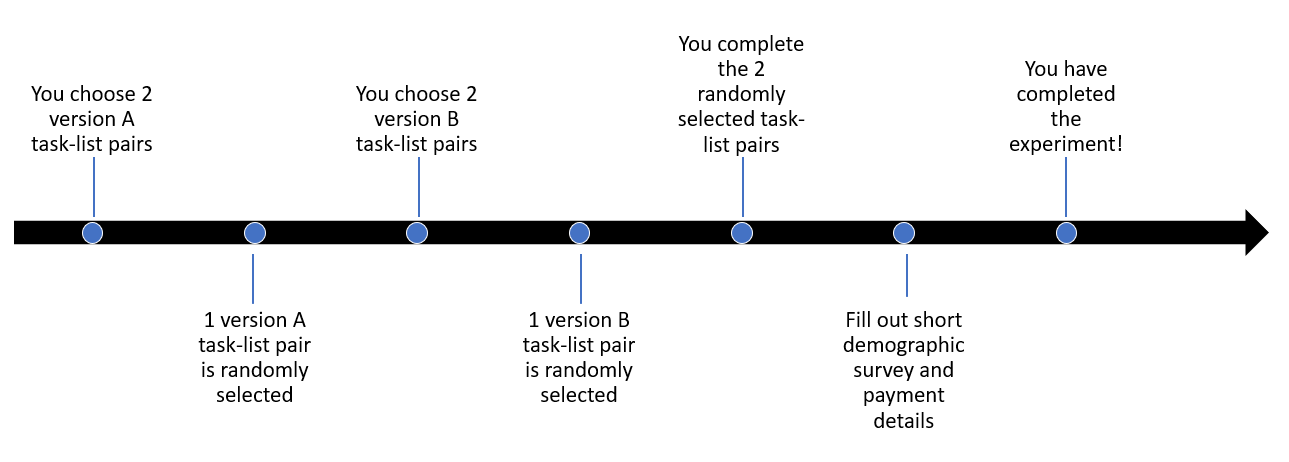
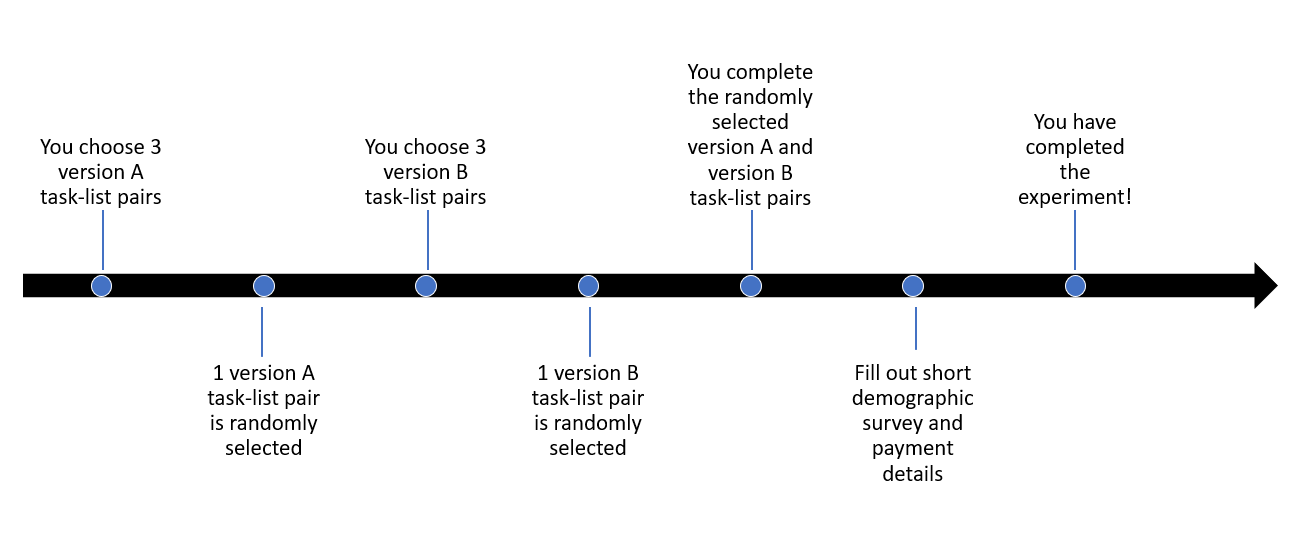
Incorporated updated changes

Changed region(s): [[0.0, 0.0606, 0.993, 0.8788], [0.6517, 0.6667, 0.7758, 0.9394], [0.4034, 0.6667, 0.4965, 0.8788]]

diff --git a/RET_Choice/BlunderTaskSelection.html b/RET_Choice/BlunderTaskSelection.html
@@ -47,35 +47,35 @@ ul { display: inline-block; text-align: left; }
 
 <div class = "opt1">
     <h4>Option 1</h4>
-    {{ if player.participant.treatment == 'Substitution' }}
-    {{ include 'RET_Choice/Substitution_Opt1.html'}}
-{{ endif }}
-{{ if player.participant.treatment == 'Post_Information' }}
-    {{ include 'RET_Choice/Post_Opt1.html'}}
-{{ endif }}
-{{ if player.participant.treatment == 'Pre_Information' }}
-    {{ include 'RET_Choice/Pre_Opt1.html'}}
-{{ endif }}
+<p>
+    Complete the <strong>{{Good_Task}} (level 1)</strong> task. <br>
+    After completing the <strong>{{Good_Task}} (level 1)</strong> task, you must complete <strong>one</strong> of the following tasks:
+</p>
+    <ul>
+        <li>{{remaining_tasks.0}} (level 1)</li>
+        <li>{{remaining_tasks.1}} (level 1)</li>
+        <li>{{remaining_tasks.2}} (level 1)</li>
+    </ul>
 </div>
 
 <br>
 <div class = "opt2">
     <h4>Option 2</h4>
-{{ if player.participant.treatment == 'Substitution' }}
-    {{ include 'RET_Choice/Substitution_Opt2.html'}}
-{{ endif }}
-{{ if player.participant.treatment == 'Post_Information' }}
-    {{ include 'RET_Choice/Post_Opt2.html'}}
-{{ endif }}
-{{ if player.participant.treatment == 'Pre_Information' }}
-    {{ include 'RET_Choice/Pre_Opt2.html'}}
-{{ endif }}
+<p>
+    Complete the <strong>{{Bad_Task}} (level 1)</strong> task. <br>
+    After completing the <strong>{{Bad_Task}} (level 1)</strong> task, you must complete <strong>one</strong> of the following tasks:
+</p>
+    <ul>
+        <li>{{remaining_tasks.0}} (level 1)</li>
+        <li>{{remaining_tasks.1}} (level 1)</li>
+        <li>{{remaining_tasks.2}} (level 1)</li>
+    </ul>
 </div>
 
 <br>
 <p>
 </p>
-    {% formfield player.Control_Task_Choice label="Please select one of the above options"
+    {% formfield player.Blunder_Task_Choice label="Please select one of the above options"
 %}
 
 

diff --git a/RET_Choice/RandomPick.html b/RET_Choice/RandomPick.html
@@ -42,6 +42,32 @@ ul { display: inline-block; text-align: left; }
             {{ include 'RET_Choice/Option2.html'}}
         {{ endif }}
     {% endwith %}
+{{ elif player.participant.treatment_used1 == 'Blunder'}}
+    {{ if player.Blunder_Task_Choice == "Option 1" }}
+        <div class = "opt1">
+        <p>
+            Complete the <strong>{{Good_Task}} (level 1)</strong> task. <br>
+            After completing the <strong>{{Good_Task}} (level 1)</strong> task, you must complete <strong>one</strong> of the following tasks:
+        </p>
+            <ul>
+                <li>{{remaining_tasks.0}} (level 1)</li>
+                <li>{{remaining_tasks.1}} (level 1)</li>
+                <li>{{remaining_tasks.2}} (level 1)</li>
+            </ul>
+        </div>
+    {{ else }}
+        <div class = "opt2">
+        <p>
+            Complete the <strong>{{Bad_Task}} (level 1)</strong> task. <br>
+            After completing the <strong>{{Bad_Task}} (level 1)</strong> task, you must complete <strong>one</strong> of the following tasks:
+        </p>
+            <ul>
+                <li>{{remaining_tasks.0}} (level 1)</li>
+                <li>{{remaining_tasks.1}} (level 1)</li>
+                <li>{{remaining_tasks.2}} (level 1)</li>
+            </ul>
+        </div>
+    {{ endif }}
 {{ else }}
     {% with control=True %}
         {{ if player.Control_Task_Choice == "Option 1" }}

diff --git a/RET_Choice/RetChoiceIntroduction.html b/RET_Choice/RetChoiceIntroduction.html
@@ -25,7 +25,7 @@
 
 <p>
     You will need to choose 4 task-list pairs. <br>
-    This will consist of choosing 2 version A task-list pairs, and 2 version B task-list pairs. <br>
+    This will consist of choosing 3 version A task-list pairs, and 3 version B task-list pairs. <br>
     I will randomly select one version A task-list pair, and one version B task-list pair for you to complete.
     The full timeline of events is shown below. <br>
 </p>

diff --git a/RET_Choice/TaskSelection.html b/RET_Choice/TaskSelection.html
@@ -35,7 +35,7 @@ ul { display: inline-block; text-align: left; }
     <h3>Reminder</h3>
 
 <p> In this stage of the experiment, you need to select a task-list pair. <br>
-    There is a <b>50%</b> chance that you will have to complete the task-list pair you choose on this page.
+    There is a <b>1 in 3</b> (approximately 33%) chance  that you will have to complete the task-list pair you choose on this page.
 </p>
 </div>
 <br>

diff --git a/RET_Choice/__init__.py b/RET_Choice/__init__.py
@@ -3,7 +3,7 @@ import random
 from otree.api import *
 
 from . import models
-from Global_Functions import task_name, task_name_decoder, option_index
+from Global_Functions import task_name, task_name_decoder, option_index, list_subtract
 # Treatment, Pair1, pair2 are inputted before.
 
 author = 'Vivikth'
@@ -35,6 +35,9 @@ class Player(BasePlayer):
     Treatment_Caused_Switch = models.BooleanField(
         doc="Treatment_Caused_Switch"
     )
+    Blunder_Task_Choice = models.CharField(
+        doc="Blunder_Task_Choice", choices=Constants.task_list, widget=widgets.RadioSelect,
+    )
 # Need to add calculations determining whether player switched.
 
 
@@ -56,11 +59,11 @@ def creating_session(subsession):
             if 'treatment_used1' in player.session.config:
                 player.participant.treatment_used1 = player.session.config['treatment_used1']
             else:
-                player.participant.treatment_used1 = random.choice(["Control", "Treatment"])
+                player.participant.treatment_used1 = random.choice(["Control", "Treatment", "Blunder"])
             if 'treatment_used2' in player.session.config:
                 player.participant.treatment_used2 = player.session.config['treatment_used2']
             else:
-                player.participant.treatment_used2 = random.choice(["Control", "Treatment"])
+                player.participant.treatment_used2 = random.choice(["Control", "Treatment", "Blunder"])
 
 
 # PAGES
@@ -68,6 +71,34 @@ class RetChoiceIntroduction(Page):
     @staticmethod
     def is_displayed(player: Player):
         return 'stage' not in player.participant.vars
+
+
+class BlunderTaskSelection(Page):
+    form_model = 'player'
+    form_fields = ['Blunder_Task_Choice']
+
+    @staticmethod
+    def vars_for_template(player: Player):
+        all_tasks = ['Tabulation', 'Concealment', 'Interpretation', 'Replication', 'Organisation']
+        if 'stage' not in player.participant.vars:
+            stage_for_template = "1st"
+            version_for_template = "A"
+            good_task = task_name(player.participant.pair1[0])
+            bad_task = task_name(player.participant.pair1[1])
+            remaining_tasks = list_subtract(all_tasks, [good_task, bad_task])
+        else:
+            stage_for_template = "2nd"
+            version_for_template = "B"
+            good_task = task_name(player.participant.pair2[0])
+            bad_task = task_name(player.participant.pair2[1])
+            remaining_tasks = list_subtract(all_tasks, [good_task, bad_task])
+        return {
+            'Good_Task': good_task,
+            'Bad_Task': bad_task,
+            'stage_for_template': stage_for_template,
+            'version_for_template': version_for_template,
+            'remaining_tasks': remaining_tasks
+        }
 
 
 class ControlTaskSelection(Page):
@@ -112,12 +143,16 @@ class TaskSelection(Page):
             player.participant.stage = '1a'
             if player.participant.treatment_used1 == "Treatment":
                 option = option_index(player.Task_Choice) - 1
+            elif player.participant.treatment_used1 == "Blunder":
+                option = option_index(player.Blunder_Task_Choice) - 1
             else:
                 option = option_index(player.Control_Task_Choice) - 1
             player.participant.opt_choice1 = option
         elif player.participant.vars['stage'] == '1a':
             if player.participant.treatment_used2 == "Treatment":
                 option = option_index(player.Task_Choice) - 1
+            elif player.participant.treatment_used2 == "Blunder":
+                option = option_index(player.Blunder_Task_Choice) - 1
             else:
                 option = option_index(player.Control_Task_Choice) - 1
             player.participant.opt_choice2 = option
@@ -150,6 +185,7 @@ class TaskSelection(Page):
 class RandomPick(Page):
     @staticmethod
     def vars_for_template(player: Player):
+        all_tasks = ['Tabulation', 'Concealment', 'Interpretation', 'Replication', 'Organisation']
         if 'opt_choice2' not in player.participant.vars:
             stage_for_template = "1st"
             version_for_template = "A"
@@ -160,6 +196,7 @@ class RandomPick(Page):
                 treatment_template = "2nd"
             else:
                 treatment_template = "1st"
+            remaining_tasks = list_subtract(all_tasks, [good_task, bad_task])
         else:
             stage_for_template = "2nd"
             version_for_template = "B"
@@ -170,13 +207,15 @@ class RandomPick(Page):
                 treatment_template = "2nd"
             else:
                 treatment_template = "1st"
+            remaining_tasks = list_subtract(all_tasks, [good_task, bad_task])
         return {
             'Good_Task': good_task,
             'Bad_Task': bad_task,
             'stage_for_template': stage_for_template,
             'Task_Info': task_info,
             'version_for_template': version_for_template,
-            'treatment_template': treatment_template
+            'treatment_template': treatment_template,
+            'remaining_tasks': remaining_tasks
         }
 
 
@@ -194,8 +233,7 @@ class RandomPick(Page):
         if 'opt_choice2' in player.participant.vars:
             player.participant.task_to_complete = task_name_decoder(task_name(player.participant.pair[opt_choice1])) \
                                                   + player.participant.stage
-            print(player.participant.task_to_complete)
             return task_name_decoder(task_name(player.participant.pair[opt_choice1])) + player.participant.stage
 
 
-page_sequence = [RetChoiceIntroduction, ControlTaskSelection, TaskSelection, RandomPick]
+page_sequence = [RetChoiceIntroduction, BlunderTaskSelection, ControlTaskSelection, TaskSelection, RandomPick]

diff --git a/Menu_Select/__init__.py b/Menu_Select/__init__.py
@@ -1,6 +1,6 @@
 from otree.api import *
 from . import models
-from Global_Functions import task_name, task_name_decoder
+from Global_Functions import task_name, task_name_decoder, list_subtract
 
 # Treatment, Pair1, pair2 are inputted before.
 
@@ -40,6 +40,12 @@ def menu_task_choices(player):
             if player.participant.treatment_used1 == "Treatment":
                 pref_opt = task_name(player.participant.pair[1])
                 return [pref_opt + " (level 2)", pref_opt + " (level 3)", pref_opt + " (level 4)"]
+            elif player.participant.treatment_used1 == "Blunder":
+                all_tasks = ['Tabulation', 'Concealment', 'Interpretation', 'Replication', 'Organisation']
+                good_task = task_name(player.participant.pair[0])
+                bad_task = task_name(player.participant.pair[1])
+                remaining_tasks = list_subtract(all_tasks, [good_task, bad_task])
+                return [task + " (level 1)" for task in remaining_tasks]
             else:
                 item1 = player.participant.sub_menu1[0][0] + " (level %i)" % (player.participant.sub_menu1[0][1])
                 item2 = player.participant.sub_menu1[1][0] + " (level %i)" % (player.participant.sub_menu1[1][1])
@@ -49,14 +55,27 @@ def menu_task_choices(player):
             if player.participant.treatment_used2 == "Treatment":
                 pref_opt = task_name(player.participant.pair[1])
                 return [pref_opt + " (level 2)", pref_opt + " (level 3)", pref_opt + " (level 4)"]
+            elif player.participant.treatment_used1 == "Blunder":
+                all_tasks = ['Tabulation', 'Concealment', 'Interpretation', 'Replication', 'Organisation']
+                good_task = task_name(player.participant.pair[0])
+                bad_task = task_name(player.participant.pair[1])
+                remaining_tasks = list_subtract(all_tasks, [good_task, bad_task])
+                return [task + " (level 1)" for task in remaining_tasks]
             else:
                 item1 = player.participant.sub_menu2[0][0] + " (level %i)" % (player.participant.sub_menu2[0][1])
                 item2 = player.participant.sub_menu2[1][0] + " (level %i)" % (player.participant.sub_menu2[1][1])
                 item3 = player.participant.sub_menu2[2][0] + " (level %i)" % (player.participant.sub_menu2[2][1])
                 return [item1, item2, item3]
     else:
-        return [task_name(player.participant.pair[0]) + " (level 1)",
-                task_name(player.participant.pair[1]) + " (level 1)"]
+        if player.participant.treatment_used1 == "Blunder":
+            all_tasks = ['Tabulation', 'Concealment', 'Interpretation', 'Replication', 'Organisation']
+            good_task = task_name(player.participant.pair[0])
+            bad_task = task_name(player.participant.pair[1])
+            remaining_tasks = list_subtract(all_tasks, [good_task, bad_task])
+            return [task + " (level 1)" for task in remaining_tasks]
+        else:
+            return [task_name(player.participant.pair[0]) + " (level 1)",
+                    task_name(player.participant.pair[1]) + " (level 1)"]
 
 
 # PAGES

diff --git a/RET_Choice/tests.py b/RET_Choice/tests.py
@@ -25,14 +25,19 @@ class PlayerBot(Bot):
 
             control_choice = bot_control_choice(bot_type)
             treatment_choice = bot_treatment_choice(bot_type)
-
+            blunder_choice = 1
             control_tremble_draw = random.random()
             if control_tremble_draw < self.case['tremble_prob']:
                 control_choice = 3 - control_choice
             treatment_tremble_draw = random.random()
             if treatment_tremble_draw < self.case['tremble_prob']:
                 treatment_choice = 3 - treatment_choice
+            blunder_tremble_draw = random.random()
+            if blunder_tremble_draw < self.case['tremble_prob']:
+                blunder_choice = 3 - treatment_choice
 
+
+            yield BlunderTaskSelection, dict(Blunder_Task_Choice="Option %i" % blunder_choice)
             yield ControlTaskSelection, dict(Control_Task_Choice="Option %i" % control_choice)
             yield TaskSelection, dict(Task_Choice="Option %i" % treatment_choice)
             yield RandomPick

diff --git a/RET_Choice_2/tests.py b/RET_Choice_2/tests.py
@@ -25,14 +25,19 @@ class PlayerBot(Bot):
 
             control_choice = bot_control_choice(bot_type)
             treatment_choice = bot_treatment_choice(bot_type)
-
+            blunder_choice = 1
             control_tremble_draw = random.random()
             if control_tremble_draw < self.case['tremble_prob']:
                 control_choice = 3 - control_choice
             treatment_tremble_draw = random.random()
             if treatment_tremble_draw < self.case['tremble_prob']:
                 treatment_choice = 3 - treatment_choice
+            blunder_tremble_draw = random.random()
+            if blunder_tremble_draw < self.case['tremble_prob']:
+                blunder_choice = 3 - treatment_choice
 
+
+            yield BlunderTaskSelection, dict(Blunder_Task_Choice="Option %i" % blunder_choice)
             yield ControlTaskSelection, dict(Control_Task_Choice="Option %i" % control_choice)
             yield TaskSelection, dict(Task_Choice="Option %i" % treatment_choice)
             yield RandomPick

diff --git a/settings.py b/settings.py
@@ -56,8 +56,8 @@ SESSION_CONFIGS = [
         pair2=["R", "I"],
         sub_menu1=[('Tabulation', 1), ('Replication', 2), ('Organisation', 3)],
         sub_menu2=[('Concealment', 1), ('Replication', 2), ('Tabulation', 3)],
-        treatment_used2="Control",
-        treatment_used1="Control",
+        treatment_used2="Blunder",
+        treatment_used1="Blunder",
     ),
     dict(
         name='RET_Choice_Post',

diff --git a/RET_Choice_2/__init__.py b/RET_Choice_2/__init__.py
@@ -26,3 +26,6 @@ class Player(BasePlayer):
     Treatment_Caused_Switch = models.BooleanField(
         doc="Treatment_Caused_Switch"
     )
+    Blunder_Task_Choice = models.CharField(
+        doc="Blunder_Task_Choice", choices=Constants.task_list, widget=widgets.RadioSelect,
+    )
